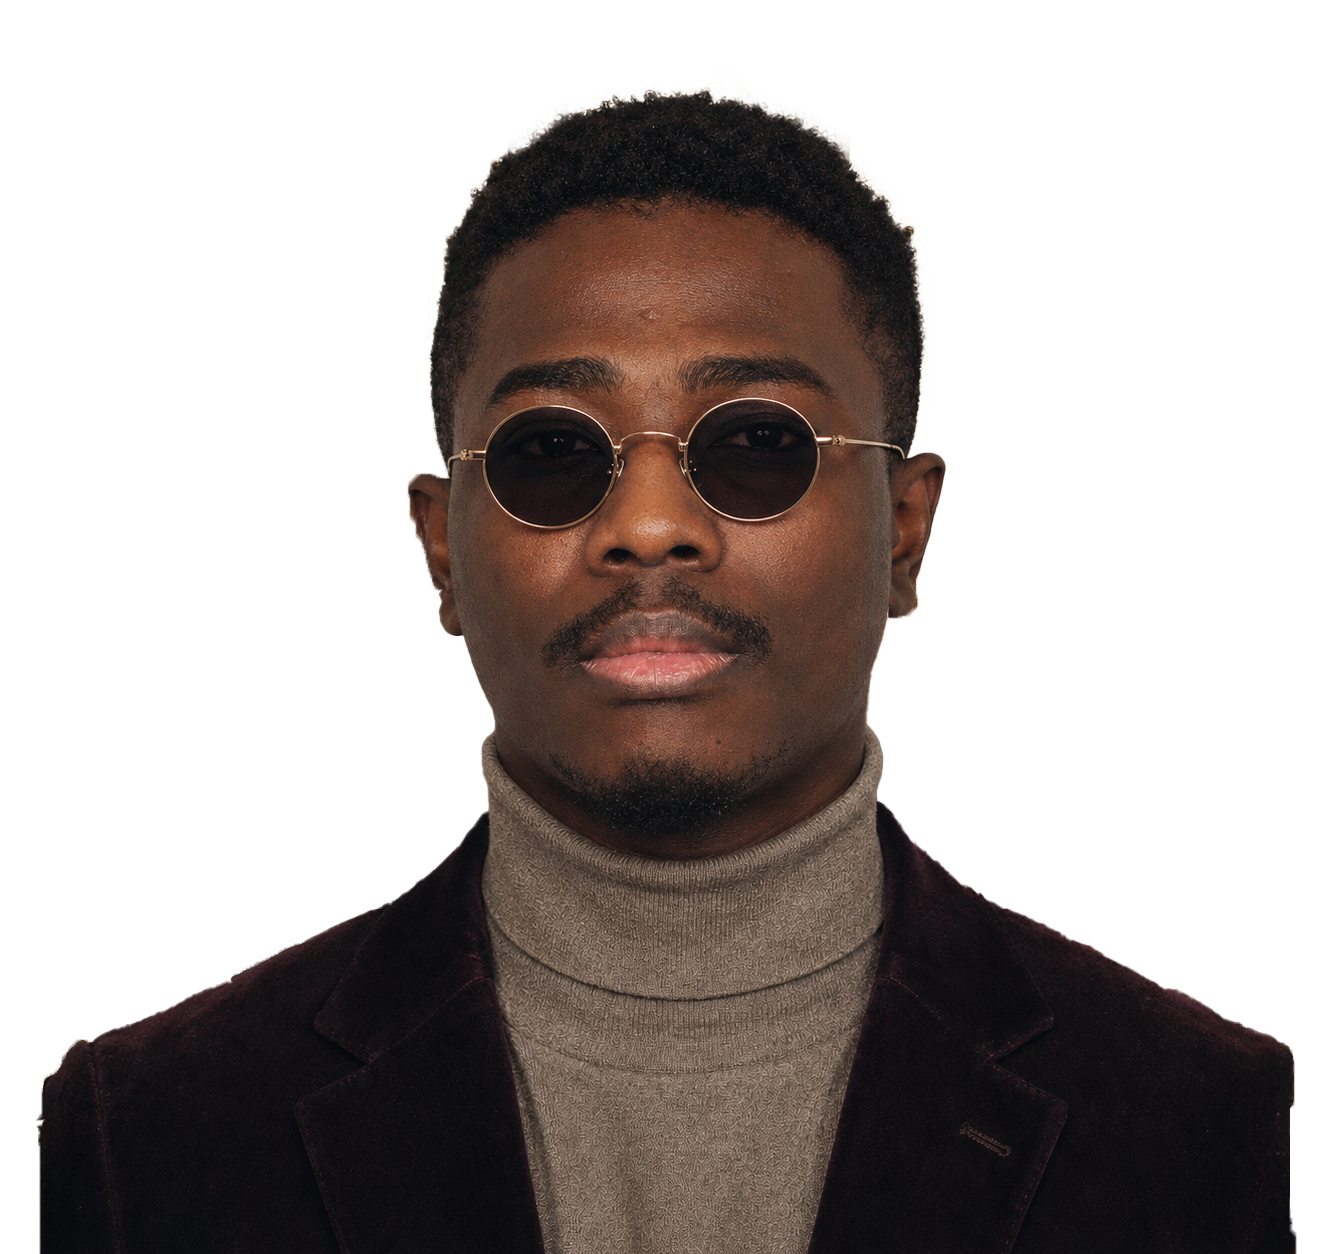
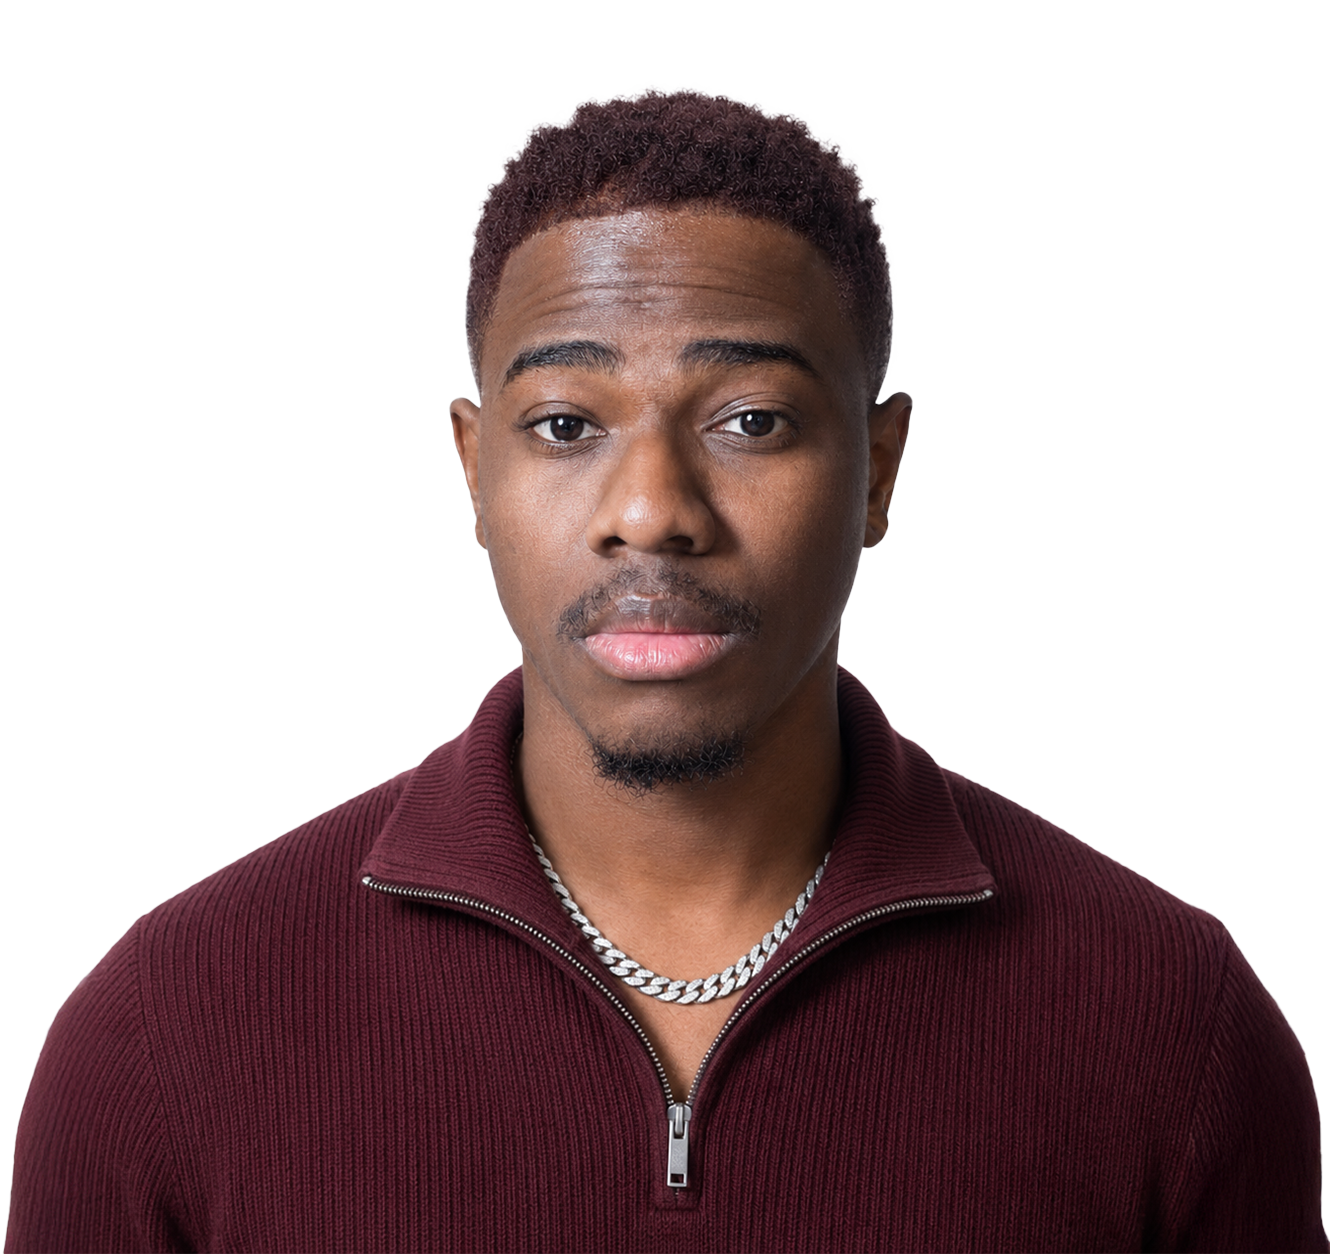
Fix Windows EPERM failures when building hosted portfolio demos.
Use a unique DEMO_BUILD_ROOT per build so Vite does not overwrite locked files, and prune stale hosted-build folders after publish.

diff --git a/Portfolio/demo-hosting.vite.ts b/Portfolio/demo-hosting.vite.ts
@@ -14,7 +14,7 @@ export function getHostedDemoSlug() {
 }
 
 export function getHostedDemoBuildRoot() {
-  return `.hosted-build/${getHostedDemoSlug()}`
+  return process.env.DEMO_BUILD_ROOT ?? `.hosted-build/${getHostedDemoSlug()}`
 }
 
 /** Alternate build output when dist/ is locked by a running dev server. */
@@ -22,23 +22,25 @@ export function getHostedDemoDefineExtras(): Record<string, unknown> {
   if (!isHostedDemoBuild()) return {}
 
   const buildRoot = getHostedDemoBuildRoot()
+  // Fresh per-build output (DEMO_BUILD_ROOT) can empty safely; reused paths must not (Windows EPERM).
+  const emptyOutDir = Boolean(process.env.DEMO_BUILD_ROOT)
 
   return {
     build: {
-      emptyOutDir: true,
+      emptyOutDir,
       outDir: buildRoot,
     },
     environments: {
       client: {
         build: {
           outDir: `${buildRoot}/client`,
-          emptyOutDir: true,
+          emptyOutDir,
         },
       },
       ssr: {
         build: {
           outDir: `${buildRoot}/server`,
-          emptyOutDir: true,
+          emptyOutDir,
         },
       },
     },